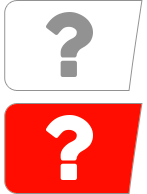
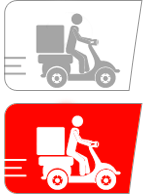
Ajustes varios - Iconos y estilos pasos compra - callcenter admin modulo para vendedor - autenticacion vendedor - permisos callcenter

diff --git a/css/main-desktop.css b/css/main-desktop.css
@@ -2046,22 +2046,27 @@ table.tabla-carro > tbody > tr > td, table.tabla-carro > tbody > tr > th, table.
     width: 100px;
 }
 .iconStep.step1 {
-    background-image: url("../images/iconos/icons_carro/desktop/despacho.png");
+    background-image: url("../images/iconos/icons_carro/desktop/tipo_entrega.png");
 }
 
 .iconStep.step2 {
-    background-image: url("../images/iconos/icons_carro/desktop/entrega.png");
+    background-image: url("../images/iconos/icons_carro/desktop/despacho.png");
 }
 
 .iconStep.step3 {
-    background-image: url("../images/iconos/icons_carro/desktop/pago.png");
+    background-image: url("../images/iconos/icons_carro/desktop/entrega.png");
 }
 .iconStep.step4 {
-    background-image: url("../images/iconos/icons_carro/desktop/confirmacion.png");
+    background-image: url("../images/iconos/icons_carro/desktop/pago.png");
 }
 .iconStep.step5 {
     background-image: url("../images/iconos/icons_carro/desktop/bono.png");
 }
+
+.iconStep.step6 {
+    background-image: url("../images/iconos/icons_carro/desktop/confirmacion.png");
+}
+
 .steps ul li.active p{
     color: #FF1500;
 }

diff --git a/protected/helpers/utils.php b/protected/helpers/utils.php
@@ -89,26 +89,30 @@ function distanciaCoordenadas($lat1, $lon1, $lat2, $lon2, $unit = 'K') {
 function GSASearch($term, $sesion) {
     $resultado = array();
     
-    $sql = "SELECT codigoProducto, descripcion, MATCH(descripcion, keyword) AGAINST('(\"$term\") (+$term) ($term) ($term*)' IN BOOLEAN MODE) as relevancia
+    if(is_numeric($term)){
+        $resultado = array($term=>4);
+    }else{
+        $sql = "SELECT codigoProducto, descripcion, MATCH(descripcion, keyword) AGAINST('(\"$term\") (+$term) ($term) ($term*)' IN BOOLEAN MODE) as relevancia
                        FROM m_Keyword
                        WHERE (MATCH(descripcion, keyword) AGAINST('(\"$term\") (+$term) ($term) ($term*)' IN BOOLEAN MODE)
                       OR (descripcion LIKE '%$term%') /* OR (codigoProducto IN (10002, 44081, 59488, 13910))*/)
                       order by relevancia DESC";
 
-    $arr1 = Yii::app()->db->createCommand($sql)->query();
-    foreach ($arr1 as $key => $value) {
-        $resultado[$value['codigoProducto']] = $value['relevancia'];
-    }
-    
-    $arr2 = GSASearchAux($term);
+        $arr1 = Yii::app()->db->createCommand($sql)->query();
+        foreach ($arr1 as $key => $value) {
+            $resultado[$value['codigoProducto']] = $value['relevancia'];
+        }
 
-    foreach ($arr2 as $key => $value) {
-        if (in_array($key, $resultado)) {
-            if ($resultado[$key] < $value) {
+        $arr2 = GSASearchAux($term);
+
+        foreach ($arr2 as $key => $value) {
+            if (in_array($key, $resultado)) {
+                if ($resultado[$key] < $value) {
+                    $resultado[$key] = $value;
+                }
+            } else {
                 $resultado[$key] = $value;
             }
-        } else {
-            $resultado[$key] = $value;
         }
     }
 

diff --git a/protected/views/carro/_d_paso1.php b/protected/views/carro/_d_paso1.php
@@ -10,14 +10,14 @@
         </div>
     </div>
     <div class="col-sm-4" >
-        <div class="iconStep step1"></div>
+        <div class="iconStep step2"></div>
         <div class="text orange"><p>2.Direcci&oacute;n de despacho</p></div>
         <div class="step-box<?php echo ($modelPago->pagoInvitado ? ' invitado' : '') ?>">
             <?php $this->renderPartial('/carro/_d_pasoDespacho', array('listDirecciones' => isset($listDirecciones) ? $listDirecciones : null, 'modelPago' => $modelPago)) ?>
         </div>
     </div>
     <div class="col-sm-4" >
-        <div class="iconStep step2"></div>
+        <div class="iconStep step3"></div>
         <div class="text orange"><p>&nbsp;3.Fecha y hora de entrega</p></div>
         <div class="step-box<?php echo ($modelPago->pagoInvitado ? ' invitado' : '') ?>">
             <?php $this->renderPartial('/carro/_d_pasoEntrega', array('modelPago' => $modelPago, 'listHorarios' => $listHorarios)) ?>
@@ -29,7 +29,7 @@
 
 <div class="row">
     <div class="col-sm-4" >
-        <div class="iconStep step3"></div>
+        <div class="iconStep step4"></div>
         <div class="text orange"><p>4.Forma de pago</p></div>
         <div class="step-box<?php echo ($modelPago->pagoInvitado ? ' invitado' : '') ?>">
             <?php $this->renderPartial('/carro/_d_pasoPago', array('modelPago' => $modelPago, 'listFormaPago' => $listFormaPago)) ?>
@@ -43,7 +43,7 @@
         </div>
     </div>
     <div class="col-sm-4" >
-        <div class="iconStep step4"></div>
+        <div class="iconStep step6"></div>
         <div class="text orange"><p>&nbsp;6.Comentarios</p></div>
         <div class="step-box<?php echo ($modelPago->pagoInvitado ? ' invitado' : '') ?>">
             <?php $this->renderPartial('/carro/_d_pasoComentario', array('modelPago' => $modelPago)) ?>

diff --git a/protected/config/main.php b/protected/config/main.php
@@ -423,16 +423,16 @@ return array(
                 1 => 'Operador',
                 2 => 'Administrador',
                 3 => 'Vendedor punto de venta',
-                10 => 'Mensajero Vendedor',
+                4 => 'Mensajero Vendedor',
             ),
             'perfilesOperador' => array(
                 'operador' => 1,
                 'administrador' => 2,
                 'vendedorPDV' => 3,
-                'mensajeroVendedor' => 10
+                'mensajeroVendedor' => 4
             ),
             
-            'perfiles' => array(1, 2, 3, 10),
+            'perfiles' => array(1, 2, 3, 4),
             'usuario' => array(
                 'estado' => array('activo' => 1, 'inactivo' => 0),
                 'estadoNombre' => array(0 => 'Inactivo', 1 => 'Activo'),

diff --git a/protected/modules/callcenter/controllers/ContenidoController.php b/protected/modules/callcenter/controllers/ContenidoController.php
@@ -184,7 +184,7 @@ class ContenidoController extends ControllerOperator {
         } else if ($opcion == 'contenido') {
 
 
-            if ($model->tipo == ModulosConfigurados::TIPO_PRODUCTOS || $model->tipo == ModulosConfigurados::TIPO_PRODUCTOS_CUADRICULA || $model->tipo == ModulosConfigurados::TIPO_PRODUCTOS_CARRO) {
+            if ( in_array($model->tipo, array($model->tipo == ModulosConfigurados::TIPO_PRODUCTOS, ModulosConfigurados::TIPO_PRODUCTOS_CUADRICULA, ModulosConfigurados::TIPO_PRODUCTOS_CARRO, ModulosConfigurados::TIPO_PRODUCTOS_BANNER)) ) {
                 $params['vista'] = 'contenidoCrearListaProductos';
 
                 $params['arrayMarcas'] = $this->obtenerMarcas();

diff --git a/protected/modules/vendedor/components/VendedorIdentity.php b/protected/modules/vendedor/components/VendedorIdentity.php
@@ -6,8 +6,7 @@
  * data can identity the user.
  */
 class VendedorIdentity extends CUserIdentity {
-    const ERROR_USER_INACTIVE = 3;
-    const PERFIL_VENDEDOR = 10;
+    const ERROR_USER_INACTIVE = 20;
     public $user = null;
     
     /**
@@ -22,7 +21,7 @@ class VendedorIdentity extends CUserIdentity {
             'condition' => 't.usuario=:usuario AND t.perfil =:perfil',
             'params' => array(
                 ':usuario' => $this->username,
-                ':perfil' => self::PERFIL_VENDEDOR
+                ':perfil' => Yii::app()->params->callcenter['perfilesOperador']['mensajeroVendedor']
             )
         ));
         

diff --git a/protected/modules/callcenter/views/bonos/index.php b/protected/modules/callcenter/views/bonos/index.php
@@ -1,5 +1,5 @@
 
-<?php if (Yii::app()->controller->module->user->profile == 2): ?>
+<?php if (in_array(Yii::app()->controller->module->user->profile, array(2, 3))): ?>
     <div class="well" align="center">
         <?php echo CHtml::button('Crear bono', array('class' => 'btn btn-primary btn-sm', 'submit' => CController::createUrl('/callcenter/bonos/index', array('opcion' => 'crear')))); ?>
         <?php echo CHtml::button('Cargar bonos', array('class' => 'btn btn-primary btn-sm', 'submit' => CController::createUrl('/callcenter/bonos/index', array('opcion' => 'cargar')))); ?>

diff --git a/protected/modules/vendedor/components/ControllerVendedor.php b/protected/modules/vendedor/components/ControllerVendedor.php
@@ -48,7 +48,7 @@ class ControllerVendedor extends Controller {
                         'condition' => 't.usuario=:usuario AND t.perfil =:perfil',
                         'params' => array(
                             ':usuario' => $usuario_desencriptado,
-                            ':perfil' => VendedorIdentity::PERFIL_VENDEDOR
+                            ':perfil' => Yii::app()->params->callcenter['perfilesOperador']['mensajeroVendedor']
                         )
                     ));
 

diff --git a/protected/modules/callcenter/controllers/OperadorController.php b/protected/modules/callcenter/controllers/OperadorController.php
@@ -13,7 +13,7 @@ class OperadorController extends ControllerOperator {
     }
 
     public function filterAccess($filter) {
-        if (Yii::app()->controller->module->user->isGuest || Yii::app()->controller->module->user->profile != 2) {
+        if (Yii::app()->controller->module->user->isGuest || !in_array(Yii::app()->controller->module->user->profile, array(2, 3))) {
             $this->redirect(Yii::app()->controller->module->homeUrl);
         }
         $filter->run();
